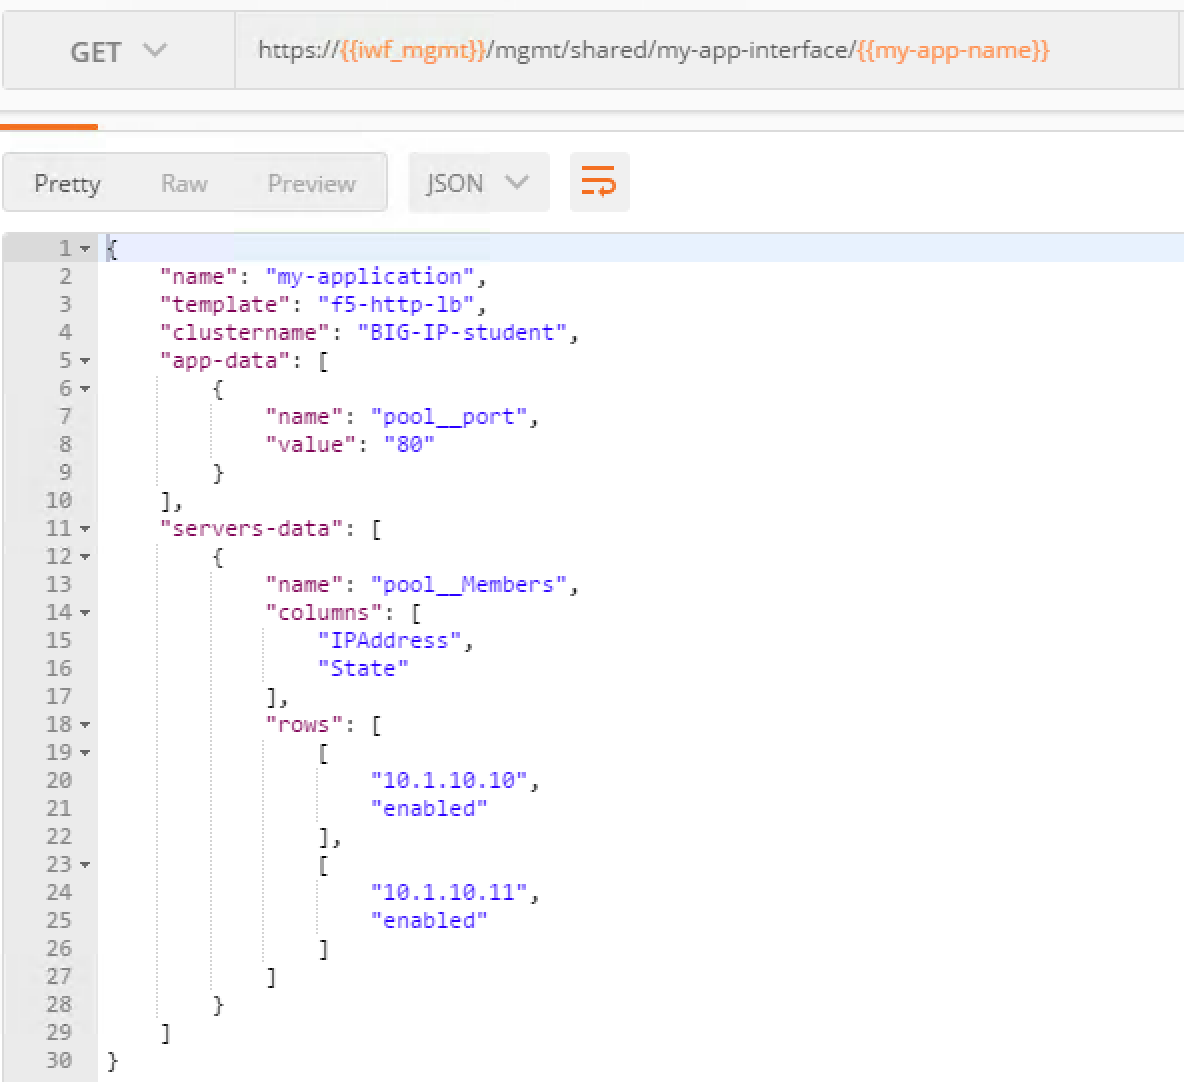
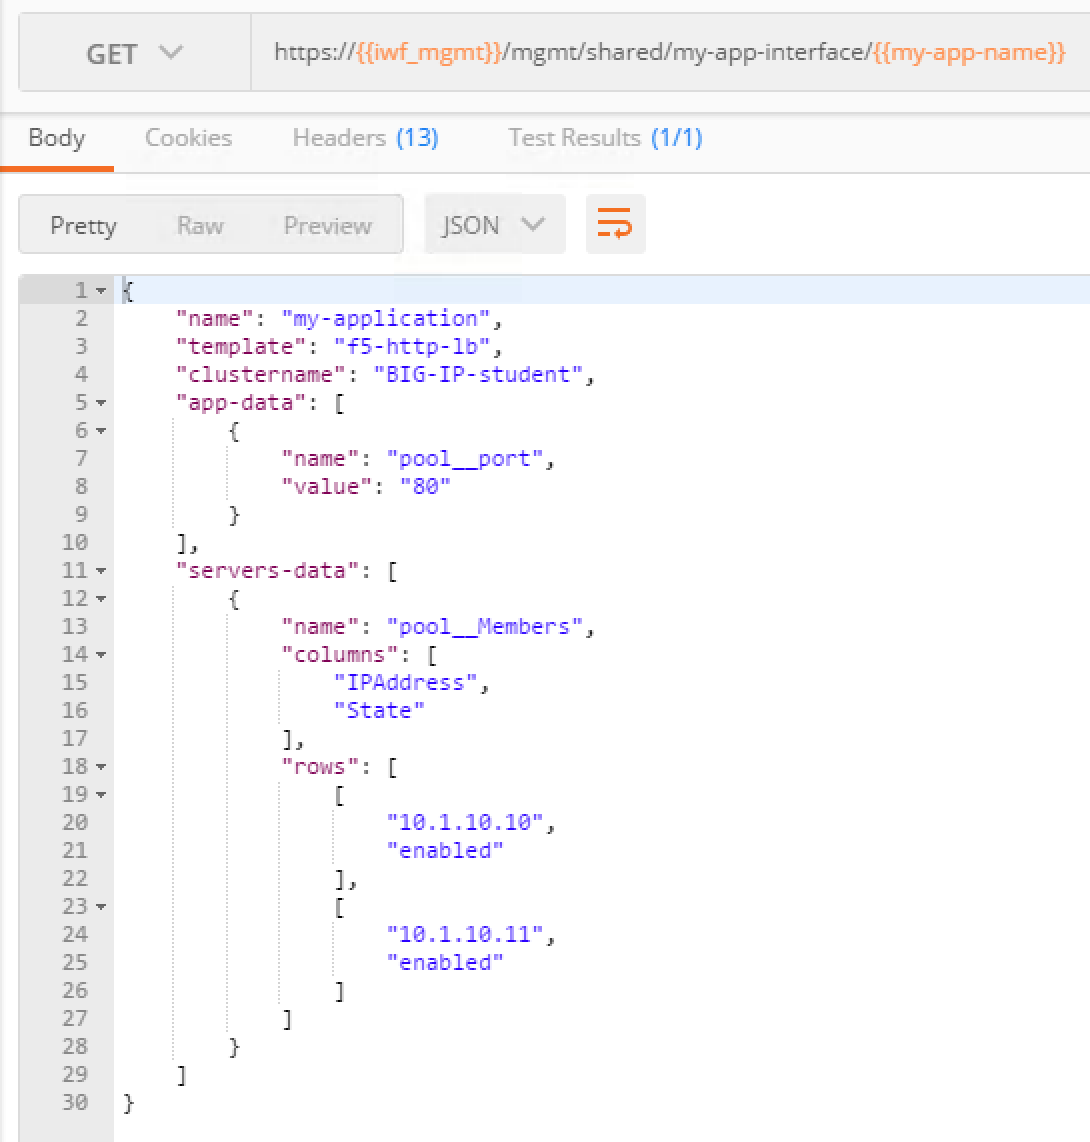
updated images for new RPMs, fixed mistake in RPM/source code

diff --git a/src/my-app-interface.js b/src/my-app-interface.js
@@ -481,7 +481,7 @@ ipam_extension.prototype.getExampleState = function () {
   return {
         "name": "my-app-name",
         "template": "f5-http-lb",
-        "clustername": "BIG-IP-student"
+        "clustername": "BIG-IP-student",
         "app-data": [
                     {
                         "name": "pool__port",

diff --git a/docs/class1/module5/lab2.rst b/docs/class1/module5/lab2.rst
@@ -83,7 +83,7 @@ Use Postman - Create HTTP Service Example
       :scale: 50%
 
 
-#. Here is the response from the service creation:
+#. Here is the response from the POST Request:
 
    .. image:: ../../_static/class1/module5/lab2-image005.png
       :align: center
@@ -94,11 +94,11 @@ Use Postman - Create HTTP Service Example
 
    .. code::
 
-      Sun, 29 Oct 2017 12:30:07 GMT - info: DEBUG: my-app-interfaceIPAM REST Call - onPost -
-      Sun, 29 Oct 2017 12:30:07 GMT - finest: socket 3 closed
-      Sun, 29 Oct 2017 12:30:07 GMT - info: DEBUG: my-app-interfaceIPAM REST Call - onPost - the retrieved IP is: 10.1.20.103
-      Sun, 29 Oct 2017 12:30:07 GMT - info: DEBUG: my-app-interface update service BODY is: "{ \"name\": \"my-application\", \"tenantTemplateReference               \": { \"link\": \"https://localhost/mgmt/cm/cloud/tenant/templates/iapp/f5-http-lb\"}, \"tenantReference\": { \"link\": \"https://localhost/mgmt               /cm/cloud/tenants/student\"},\"vars\": [ { \"name\" : \"pool__port\", \"value\" : \"80\"},{\"name\": \"pool__addr\",\"value\": \"10.1.20.103\"}]               , \"tables\": [\n\t{\n\t\t\"name\": \"pool__Members\",\n\t\t\"columns\": [\n\t\t\t\"IPAddress\",\n\t\t\t\"State\"\n\t\t],\n\t\t\"rows\": [\n\t\t               \t[\n\t\t\t\t\"10.1.10.10\",\n\t\t\t\t\"enabled\"\n\t\t\t],\n\t\t\t[\n\t\t\t\t\"10.1.10.10\",\n\t\t\t\t\"enabled\"\n\t\t\t]\n\t\t]\n\t}\n],\"pro               perties\": [{\"id\": \"cloudConnectorReference\",\"isRequired\": false, \"value\": \"https://localhost/mgmt/cm/cloud/connectors/local/58df07a5-f               51c-45ac-a35b-406cfb35840c\"}],\"selfLink\": \"https://localhost/mgmt/cm/cloud/tenants/student/services/iapp/my-application\"}"
-      Sun, 29 Oct 2017 12:30:07 GMT - info: DEBUG: my-app-interface - function RestPostRequest, Service created successfully
+      Mon, 13 Nov 2017 14:51:40 GMT - info: DEBUG: my-app-interface- onPost - the retrieved IP is: 10.1.20.100
+      Mon, 13 Nov 2017 14:51:40 GMT - info: DEBUG: my-app-interfaceretrieve connector ID - onPost - the connector name is : BIG-IP-student
+      Mon, 13 Nov 2017 14:51:40 GMT - info: DEBUG: my-app-interface onPost - connector ID is : 58df07a5-f51c-45ac-a35b-406cfb35840c
+      Mon, 13 Nov 2017 14:51:40 GMT - info: DEBUG: my-app-interface update service BODY is: "{ \"name\": \"my-application\", \"tenantTemplateReference\": { \"link\": \"https://localhost/mgmt/cm/cloud/tenant/templates/iapp/f5-http-lb\"}, \"tenantReference\": { \"link\": \"https://localhost/mgmt/cm/cloud/tenants/student\"},\"vars\": [ { \"name\" : \"pool__port\", \"value\" : \"80\"},{\"name\": \"pool__addr\",\"value\": \"10.1.20.100\"}], \"tables\": [\n\t{\n\t\t\"name\": \"pool__Members\",\n\t\t\"columns\": [\n\t\t\t\"IPAddress\",\n\t\t\t\"State\"\n\t\t],\n\t\t\"rows\": [\n\t\t\t[\n\t\t\t\t\"10.1.10.10\",\n\t\t\t\t\"enabled\"\n\t\t\t],\n\t\t\t[\n\t\t\t\t\"10.1.10.11\",\n\t\t\t\t\"enabled\"\n\t\t\t]\n\t\t]\n\t}\n],\"properties\": [{\"id\": \"cloudConnectorReference\",\"isRequired\": false, \"value\": \"https://localhost/mgmt/cm/cloud/connectors/local/58df07a5-f51c-45ac-a35b-406cfb35840c\"}],\"selfLink\": \"https://localhost/mgmt/cm/cloud/tenants/student/services/iapp/my-application\"}"
+      Mon, 13 Nov 2017 14:51:40 GMT - info: DEBUG: my-app-interface - function RestPostRequest, Service created successfully
 
 
 #. Logging as ``student`` on the iWorkflow UI:

diff --git a/docs/class1/module5/lab1.rst b/docs/class1/module5/lab1.rst
@@ -13,7 +13,7 @@ directory ``/var/config/rest/downloads``:
 .. code::
 
    # ls /var/config/rest/downloads/
-   my-app-interface-0.1-001.noarch.rpm  tmp
+   my-app-interface-1.0-002.noarch.rpm  tmp
 
 To install your RPM, you have two different options:
 
@@ -83,32 +83,32 @@ Perform the following steps to complete this task:
    .. code::
 
       {
-        "packageFilePath": "/var/config/rest/downloads/my-app-interface-0.1-001.noarch.rpm",
-        "packageName": "my-app-interface-0.1-001.noarch",
+        "packageFilePath": "/var/config/rest/downloads/my-app-interface-1.0-002.noarch.rpm",
+        "packageName": "my-app-interface-1.0-002.noarch",
         "operation": "INSTALL",
         "packageManifest": {
             "tags": [
                 "IAPP"
             ]
         },
-        "id": "9bfc0b20-19e2-4565-9ffe-44221fba239e",
+        "id": "73a9097e-b78a-4693-8ebe-961e27049a84",
         "status": "FINISHED",
-        "startTime": "2017-10-29T02:37:46.504-0700",
-        "endTime": "2017-10-29T02:37:46.957-0700",
+        "startTime": "2017-11-13T06:45:20.957-0800",
+        "endTime": "2017-11-13T06:45:21.567-0800",
         "userReference": {
             "link": "https://localhost/mgmt/shared/authz/users/admin"
         },
         "identityReferences": [
             {
-                "link": "https://localhost/mgmt/shared/authz/users/admin"
-            }
+              "link": "https://localhost/mgmt/shared/authz/users/admin"
+           }
         ],
         "ownerMachineId": "075786c3-27a2-45da-8b06-86dcbb73a1c5",
         "generation": 3,
-        "lastUpdateMicros": 1509269866957258,
+        "lastUpdateMicros": 1510584321566822,
         "kind": "shared:iapp:package-management-tasks:iapppackagemanagementtaskstate",
-        "selfLink": "https://localhost/mgmt/shared/iapp/package-management-tasks/9bfc0b20-19e2-4565-9ffe-44221fba239e"
-      }
+        "selfLink": "https://localhost/mgmt/shared/iapp/package-management-tasks/73a9097e-b78a-4693-8ebe-961e27049a84"
+    }
 
 Use the newman script
 ~~~~~~~~~~~~~~~~~~~~~
